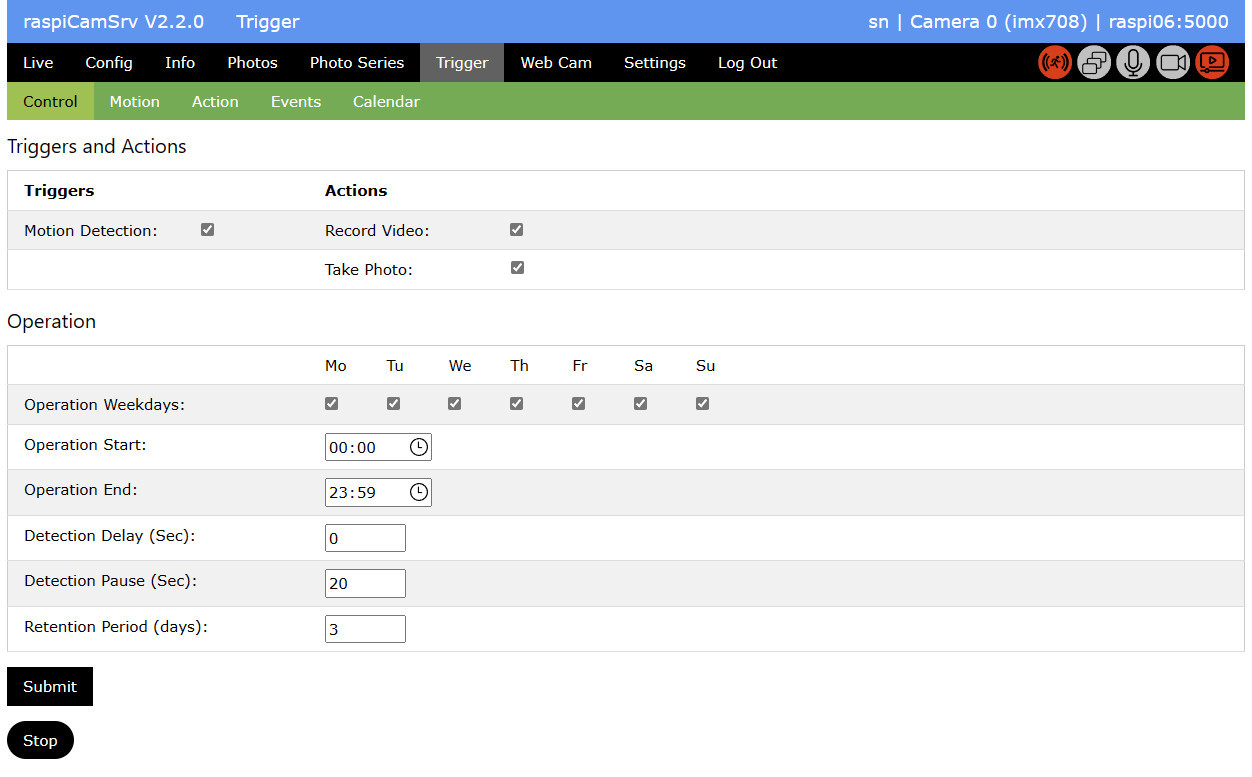
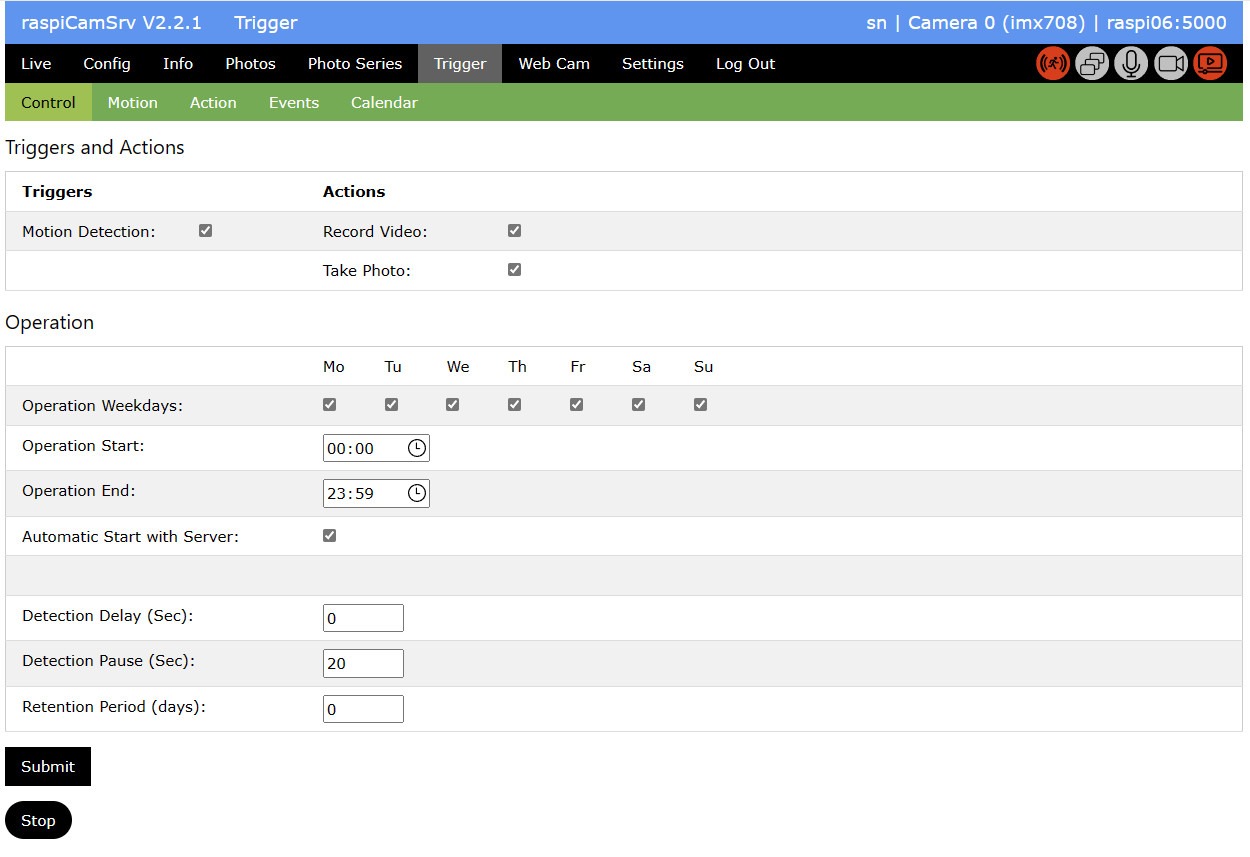
V2.2.2 Allow autostart of motion capture - see release notes

diff --git a/raspiCamSrv/templates/trigger/trigger.html b/raspiCamSrv/templates/trigger/trigger.html
@@ -176,6 +176,26 @@
                 <tr>
                     <td class="w3-tooltip" style="width:25%">
                         <span style="position:absolute;left:0;bottom:30px" class="w3-text w3-tag">
+                            Automatically start with server start.<br>
+                            Requires to store configuration and start server with stored configuration
+                        </span>
+                        <label for="opautostart">Automatic Start with Server:</label>
+                    </td>
+                    <td style="width:5%;">
+                        {% if tc.operationAutoStart == True %}
+                        <input type="checkbox" id="opautostart" name="opautostart" value="1" checked>
+                        {% else %}
+                        <input type="checkbox" id="opautostart" name="opautostart" value="0">
+                        {% endif %}
+                    </td>
+                    <td colspan="6" style="width: 70%;"></td>
+                </tr>
+                <tr>
+                    <td colspan="9" style="width: 100%;">&nbsp;</td>
+                </tr>
+                <tr>
+                    <td class="w3-tooltip" style="width:25%">
+                        <span style="position:absolute;left:0;bottom:30px" class="w3-text w3-tag">
                             Delay in seconds for starting actions after trigger event
                         </span>
                         <label for="opdelay">Detection Delay (Sec):</label>

diff --git a/raspiCamSrv/__init__.py b/raspiCamSrv/__init__.py
@@ -4,8 +4,11 @@ from flask import Flask
 import logging
 from flask.logging import default_handler
 from picamera2 import Picamera2
+from raspiCamSrv.camera_pi import Camera
+from raspiCamSrv.motionDetector import MotionDetector
 import json
 import datetime
+from werkzeug.serving import is_running_from_reloader
 
 def create_app(test_config=None):
     # create and configure the app
@@ -54,7 +57,7 @@ def create_app(test_config=None):
 
     #>>>>> Explicitely set specific log levels. Leave "werkzeug" at INFO
     logging.getLogger("werkzeug").setLevel(logging.INFO)
-    #logging.getLogger("raspiCamSrv.camera_pi").setLevel(logging.INFO)
+    #logging.getLogger("raspiCamSrv.camera_pi").setLevel(logging.DEBUG)
     #logging.getLogger("raspiCamSrv.motionDetector").setLevel(logging.DEBUG)
     
     #>>>>> Set log level for picamera2 (DEBUG, INFO, WARNING, ERROR)
@@ -116,7 +119,6 @@ def create_app(test_config=None):
     tc = cfg.triggerConfig
     tc.actionPath = tcActionPath
     Path(tc.logFilePath).touch(exist_ok=True)
-
         
     # Configure Photoseries
     from . import photoseriesCfg
@@ -125,6 +127,11 @@ def create_app(test_config=None):
     tlCfg = photoseriesCfg.PhotoSeriesCfg()
     tlCfg.rootPath = tlRootPath
     tlCfg.initFromTlFolder()
+
+    # Autostart triggered capture, if configured
+    if tc.operationAutoStart:
+        MotionDetector().startMotionDetection()
+        sc.isTriggerRecording = True
     
     # Register required blueprints
     from . import auth

diff --git a/raspiCamSrv/camCfg.py b/raspiCamSrv/camCfg.py
@@ -26,6 +26,7 @@ class TriggerConfig():
         self._operationStartMinute: int = 0
         self._operationEndMinute: int = 1439
         self._operationWeekdays = {"1":True, "2":True, "3":True, "4":True, "5":True, "6":True, "7":True}
+        self._operationAutoStart = False
         self._detectionDelaySec = 0
         self._detectionPauseSec = 20
         self._motionDetectAlgo = 1
@@ -106,6 +107,14 @@ class TriggerConfig():
     @operationWeekdays.setter
     def operationWeekdays(self, value: dict):
         self._operationWeekdays = value
+
+    @property
+    def operationAutoStart(self) -> bool:
+        return self._operationAutoStart
+
+    @operationAutoStart.setter
+    def operationAutoStart(self, value: bool):
+        self._operationAutoStart = value
 
     @property
     def detectionDelaySec(self) -> int:
@@ -2712,6 +2721,12 @@ class ServerConfig():
                     setattr(sc, key, dbt)
             else:
                 setattr(sc, key, value)
+        # Reset process status variables
+        sc.isLiveStream = False
+        sc.isAudioRecording = False
+        sc.isPhotoSeriesRecording = False
+        sc.isTriggerRecording = False
+        sc.isVideoRecording = False
         return sc
     
 class CameraCfg():

diff --git a/raspiCamSrv/trigger.py b/raspiCamSrv/trigger.py
@@ -69,6 +69,10 @@ def control():
         tc.operationStartStr = opStartStr
         opEndStr = request.form["opend"]
         tc.operationEndStr = opEndStr
+        if request.form.get("opautostart") is None:
+            tc.operationAutoStart = False
+        else:
+            tc.operationAutoStart = True
         detectDelay = int(request.form["opdelay"])
         tc.detectionDelaySec = detectDelay
         detectPause = int(request.form["oppause"])

diff --git a/raspiCamSrv/version.py b/raspiCamSrv/version.py
@@ -1,1 +1,1 @@
-version="V2.2.1"
+version="V2.2.2"

diff --git a/docs/Trigger.md b/docs/Trigger.md
@@ -26,6 +26,11 @@ In case *Record Video* is selected, also at least one photo must be taken. This 
 - With *Operation Weekdays*, you specify the weekdays when triggering shall be active.
 - *Operation Start* specifies the daytime when triggering is activated on each active weekday.
 - *Operation End* specifies the daytime when triggering is paused.
+- *Automatic Start with Server*   
+When activated, the trigger capturing process can be automatically started with the server.   
+When you change this parameter, you need to go to [Settings](./Settings.md) and store the current [Server Configuration](./Settings.md#server-configuration)   
+If you want automatic start, you also need to select *Start Server with stored Configuration*.    
+**Note** In case you start the Flask server manually, do not use the ```--debug``` option. This will cause an exception (see [Flask Issue #5437](https://github.com/pallets/flask/discussions/5437)).
 - *Detection Delay* allows specifying a dalay in seconds. When an event is triggered, the configured action (video and/or photo) will be delayed by the specified number of seconds. Normally, this will be 0.
 - *Detection Pause* specifies a 'dead time' after an event has been registerd. Within this time no new event will be registered although the system will not stop detecting motion.   
 This setting prevents from being flooded with registered events, for example if motion persists for a longer time.

diff --git a/README.md b/README.md
@@ -9,7 +9,7 @@ Up to now, it was tested on Pi Zero W, Pi Zero 2 W, Pi 4 and Pi 5 running Bullse
 
 Due to responsive layout from [W3.CSS](https://www.w3schools.com/w3css/), all modern browsers on PC, Mac or mobile devices can be used as clients.
 
-## Feature Overview V2.2.1
+## Feature Overview V2.2.2
 For more details, see the [User Guide](docs/UserGuide.md) and [Release Notes](./docs/ReleaseNotes.md)
 
 ![Live Overview](docs/img/Live.jpg)

diff --git a/docs/ReleaseNotes.md b/docs/ReleaseNotes.md
@@ -2,6 +2,14 @@
 
 [![Up](img/goup.gif)](../README.md)
 
+## V2.1.2
+
+### New Feature
+
+- Added an option to automatically start motion capture with the Flask server.   
+Thus, if server start is done in a service, motion capturing will automatically be active if the device is booted.   
+(See [Triggered Capture of Videos and Photos](./Trigger.md))
+
 ## V2.2.1
 
 ### Bugfixes
